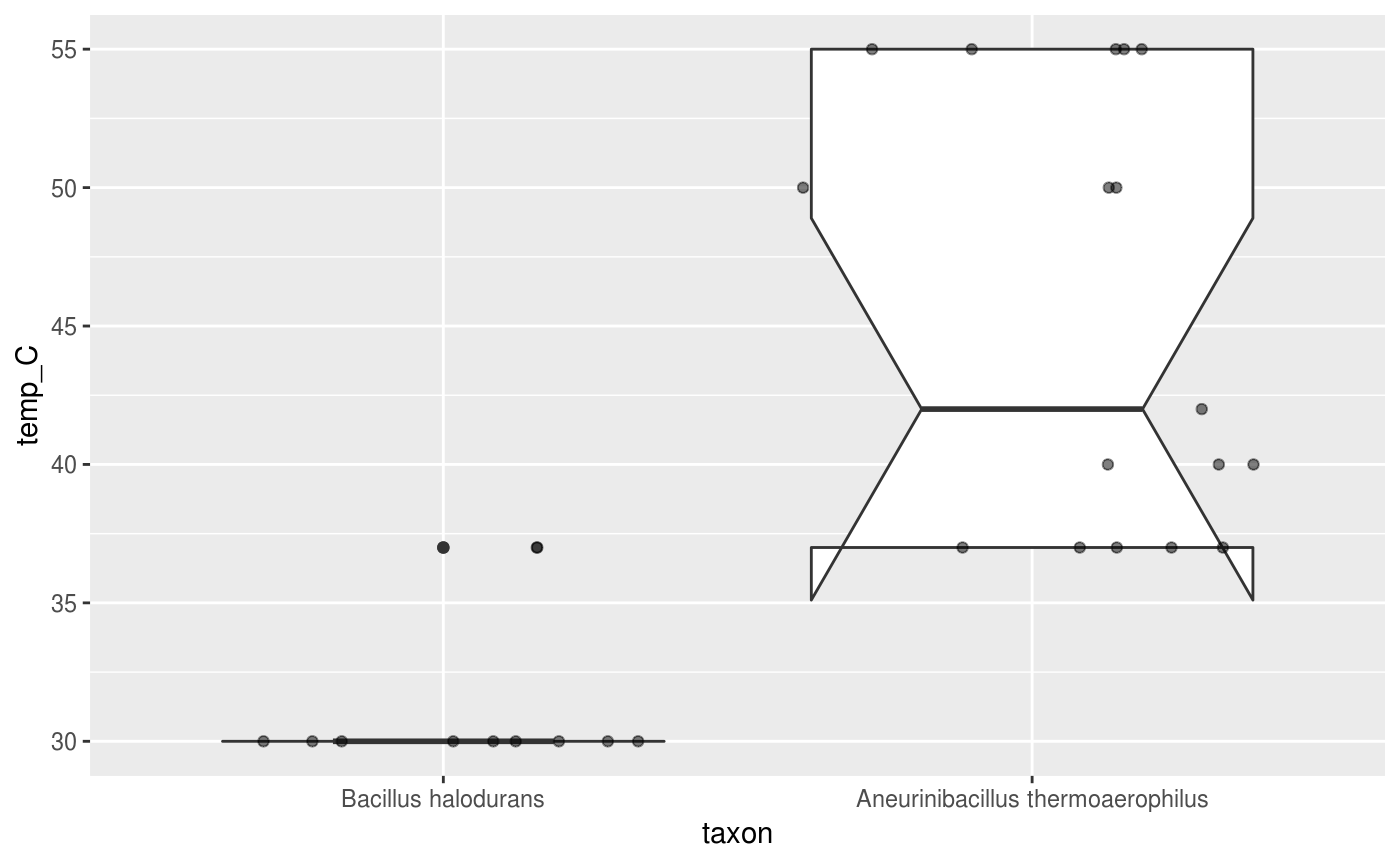
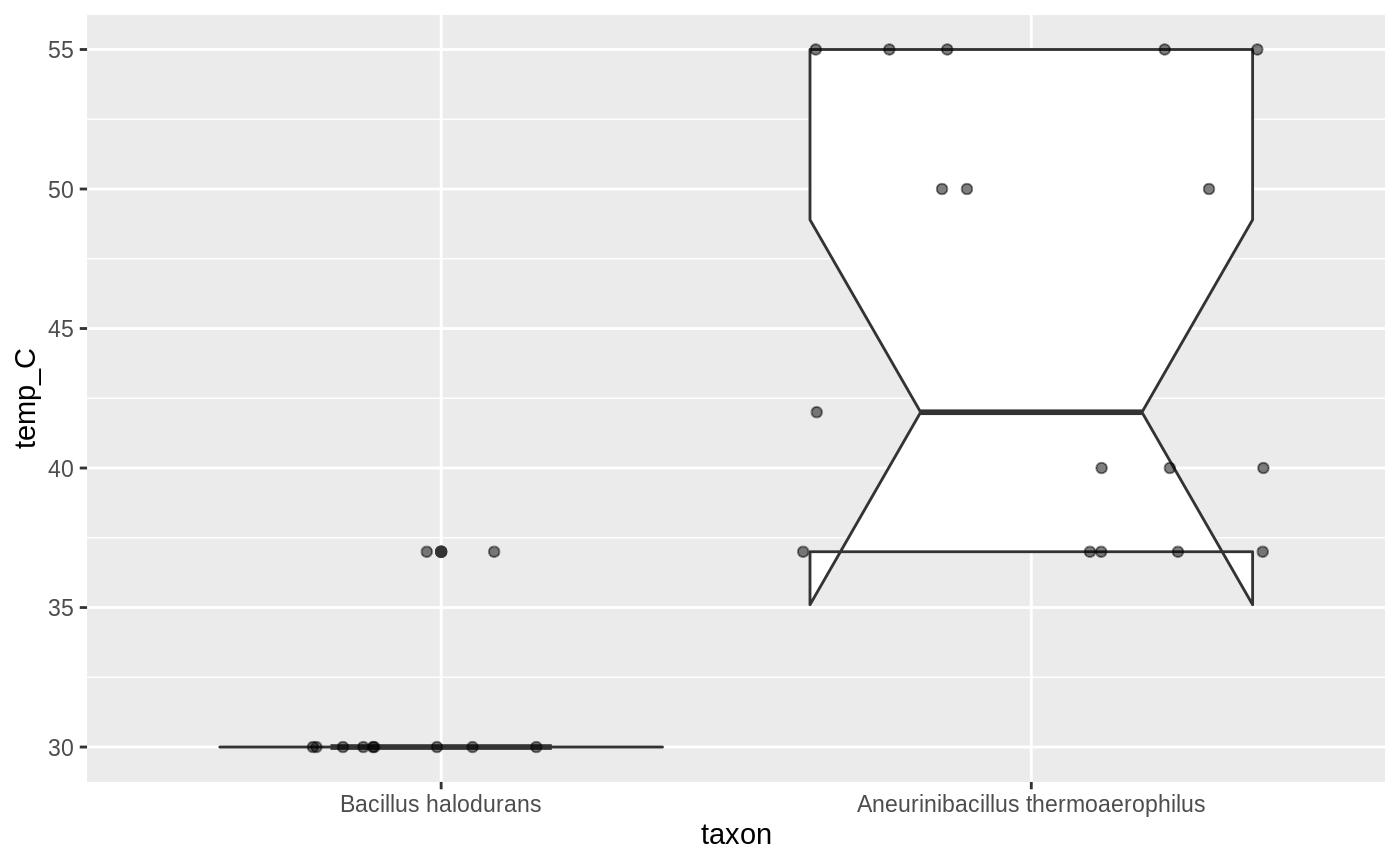
Built site for BacDiveR: 0.9.0@fb0cd56

diff --git a/articles/BacDive-ing-in.html b/articles/BacDive-ing-in.html
@@ -96,7 +96,7 @@
             <h3 class="subtitle">Retrieving data(sets) from BacDive</h3>
                         <h4 class="author">Katrin Leinweber</h4>
             
-            <h4 class="date">2019-05-28</h4>
+            <h4 class="date">2019-06-28</h4>
       
       <small class="dont-index">Source: <a href="https://github.com/TIBHannover/BacDiveR/blob/master/vignettes/BacDive-ing-in.Rmd"><code>vignettes/BacDive-ing-in.Rmd</code></a></small>
       <div class="hidden name"><code>BacDive-ing-in.Rmd</code></div>
@@ -156,17 +156,12 @@
 <a href="#plotting-the-extracted-data" class="anchor"></a>Plotting the extracted data</h2>
 <p>Before visualising the data, we need to create a dataframe of the two datasets.</p>
 <div class="sourceCode" id="cb4"><pre class="sourceCode r"><code class="sourceCode r"><a class="sourceLine" id="cb4-1" data-line-number="1"><span class="kw"><a href="https://www.rdocumentation.org/packages/base/topics/library">library</a></span>(<span class="st">"ggplot2"</span>)</a>
-<a class="sourceLine" id="cb4-2" data-line-number="2"><span class="co">#&gt; Registered S3 methods overwritten by 'ggplot2':</span></a>
-<a class="sourceLine" id="cb4-3" data-line-number="3"><span class="co">#&gt;   method         from </span></a>
-<a class="sourceLine" id="cb4-4" data-line-number="4"><span class="co">#&gt;   [.quosures     rlang</span></a>
-<a class="sourceLine" id="cb4-5" data-line-number="5"><span class="co">#&gt;   c.quosures     rlang</span></a>
-<a class="sourceLine" id="cb4-6" data-line-number="6"><span class="co">#&gt;   print.quosures rlang</span></a>
-<a class="sourceLine" id="cb4-7" data-line-number="7"></a>
-<a class="sourceLine" id="cb4-8" data-line-number="8"><span class="kw"><a href="https://www.rdocumentation.org/packages/base/topics/cbind">rbind</a></span>(temperature_Bac, temperature_At) <span class="op">%&gt;%</span><span class="st"> </span></a>
-<a class="sourceLine" id="cb4-9" data-line-number="9"><span class="st">  </span><span class="kw"><a href="https://www.rdocumentation.org/packages/ggplot2/topics/ggplot">ggplot</a></span>(<span class="kw"><a href="https://www.rdocumentation.org/packages/ggplot2/topics/aes">aes</a></span>(<span class="dt">x =</span> taxon, <span class="dt">y =</span> temp_C)) <span class="op">+</span></a>
-<a class="sourceLine" id="cb4-10" data-line-number="10"><span class="st">  </span><span class="kw"><a href="https://www.rdocumentation.org/packages/ggplot2/topics/geom_boxplot">geom_boxplot</a></span>(<span class="dt">notch =</span> <span class="ot">TRUE</span>) <span class="op">+</span></a>
-<a class="sourceLine" id="cb4-11" data-line-number="11"><span class="st">  </span><span class="kw"><a href="https://www.rdocumentation.org/packages/ggplot2/topics/geom_jitter">geom_jitter</a></span>(<span class="dt">height =</span> <span class="dv">0</span>, <span class="dt">alpha =</span> <span class="fl">0.5</span>)</a>
-<a class="sourceLine" id="cb4-12" data-line-number="12"><span class="co">#&gt; notch went outside hinges. Try setting notch=FALSE.</span></a></code></pre></div>
+<a class="sourceLine" id="cb4-2" data-line-number="2"></a>
+<a class="sourceLine" id="cb4-3" data-line-number="3"><span class="kw"><a href="https://www.rdocumentation.org/packages/base/topics/cbind">rbind</a></span>(temperature_Bac, temperature_At) <span class="op">%&gt;%</span><span class="st"> </span></a>
+<a class="sourceLine" id="cb4-4" data-line-number="4"><span class="st">  </span><span class="kw"><a href="https://ggplot2.tidyverse.org/reference/ggplot.html">ggplot</a></span>(<span class="kw"><a href="https://ggplot2.tidyverse.org/reference/aes.html">aes</a></span>(<span class="dt">x =</span> taxon, <span class="dt">y =</span> temp_C)) <span class="op">+</span></a>
+<a class="sourceLine" id="cb4-5" data-line-number="5"><span class="st">  </span><span class="kw"><a href="https://ggplot2.tidyverse.org/reference/geom_boxplot.html">geom_boxplot</a></span>(<span class="dt">notch =</span> <span class="ot">TRUE</span>) <span class="op">+</span></a>
+<a class="sourceLine" id="cb4-6" data-line-number="6"><span class="st">  </span><span class="kw"><a href="https://ggplot2.tidyverse.org/reference/geom_jitter.html">geom_jitter</a></span>(<span class="dt">height =</span> <span class="dv">0</span>, <span class="dt">alpha =</span> <span class="fl">0.5</span>)</a>
+<a class="sourceLine" id="cb4-7" data-line-number="7"><span class="co">#&gt; notch went outside hinges. Try setting notch=FALSE.</span></a></code></pre></div>
 <p><img src="BacDive-ing-in_files/figure-html/ggplot-1.png" width="700"></p>
 <p>And thus we find, that <em>Aneurinibacillus thermoaerophilus</em> contains strains with different growth optima (note the groups of data <em>points</em>), even up to the 50-something-°C-range as the <code>thermo</code>-part in its name suggest). On the other hand, all <em>Bacillus halodurans</em> strains known to BacDive were found to grow best at the lower temperature of 31.2727273°C. Thanks to the notch in <em>Aneurinibacillus thermoaerophilus</em>’s box, we can also say that there is a significant difference between the temperature ranges of these two taxons, even before digging into the numbers:</p>
 <div class="sourceCode" id="cb5"><pre class="sourceCode r"><code class="sourceCode r"><a class="sourceLine" id="cb5-1" data-line-number="1"><span class="kw"><a href="https://www.rdocumentation.org/packages/base/topics/summary">summary</a></span>(temperature_Bac<span class="op">$</span>temp_C)</a>

diff --git a/articles/pre-configuring-advanced-searches-and-retrieving-the-results.html b/articles/pre-configuring-advanced-searches-and-retrieving-the-results.html
@@ -95,7 +95,7 @@
       <h1>Pre-Configuring Advanced Searches and Retrieving the Results</h1>
                         <h4 class="author">Katrin Leinweber</h4>
             
-            <h4 class="date">2019-05-28</h4>
+            <h4 class="date">2019-06-28</h4>
       
       <small class="dont-index">Source: <a href="https://github.com/TIBHannover/BacDiveR/blob/master/vignettes/pre-configuring-advanced-searches-and-retrieving-the-results.Rmd"><code>vignettes/pre-configuring-advanced-searches-and-retrieving-the-results.Rmd</code></a></small>
       <div class="hidden name"><code>pre-configuring-advanced-searches-and-retrieving-the-results.Rmd</code></div>

diff --git a/articles/adr-002-two-download-functions-returning-datasets.html b/articles/adr-002-two-download-functions-returning-datasets.html
@@ -95,7 +95,7 @@
       <h1>ADR 2: Two download functions that return full datasets by default</h1>
                         <h4 class="author">Katrin Leinweber</h4>
             
-            <h4 class="date">2019-05-28</h4>
+            <h4 class="date">2019-06-28</h4>
       
       <small class="dont-index">Source: <a href="https://github.com/TIBHannover/BacDiveR/blob/master/vignettes/adr-002-two-download-functions-returning-datasets.Rmd"><code>vignettes/adr-002-two-download-functions-returning-datasets.Rmd</code></a></small>
       <div class="hidden name"><code>adr-002-two-download-functions-returning-datasets.Rmd</code></div>

diff --git a/articles/logic-checking-bacdive-datasets.html b/articles/logic-checking-bacdive-datasets.html
@@ -95,7 +95,7 @@
       <h1>Logic-Checking BacDive Datasets</h1>
                         <h4 class="author">Katrin Leinweber</h4>
             
-            <h4 class="date">2019-05-28</h4>
+            <h4 class="date">2019-06-28</h4>
       
       <small class="dont-index">Source: <a href="https://github.com/TIBHannover/BacDiveR/blob/master/vignettes/logic-checking-bacdive-datasets.Rmd"><code>vignettes/logic-checking-bacdive-datasets.Rmd</code></a></small>
       <div class="hidden name"><code>logic-checking-bacdive-datasets.Rmd</code></div>

diff --git a/articles/adr-001-JSON-not-XML.html b/articles/adr-001-JSON-not-XML.html
@@ -95,7 +95,7 @@
       <h1>ADR 1: Using JSON internally, instead of XML</h1>
                         <h4 class="author">Katrin Leinweber</h4>
             
-            <h4 class="date">2019-05-28</h4>
+            <h4 class="date">2019-06-28</h4>
       
       <small class="dont-index">Source: <a href="https://github.com/TIBHannover/BacDiveR/blob/master/vignettes/adr-001-JSON-not-XML.Rmd"><code>vignettes/adr-001-JSON-not-XML.Rmd</code></a></small>
       <div class="hidden name"><code>adr-001-JSON-not-XML.Rmd</code></div>
